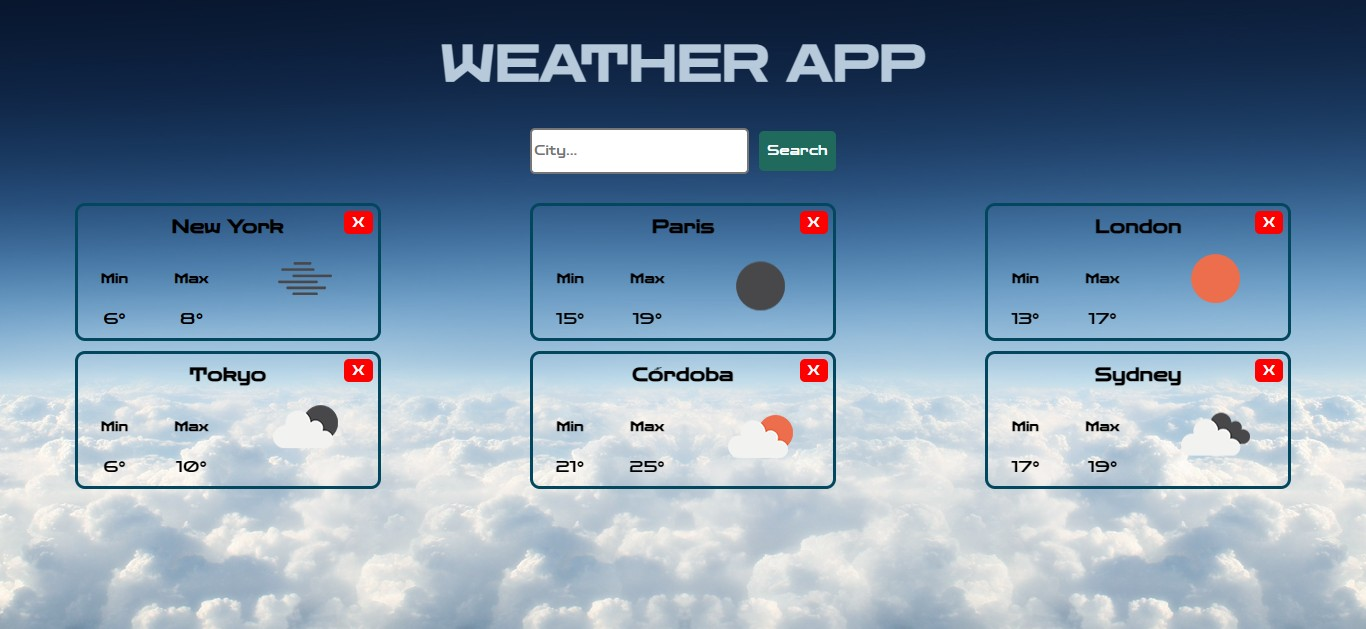
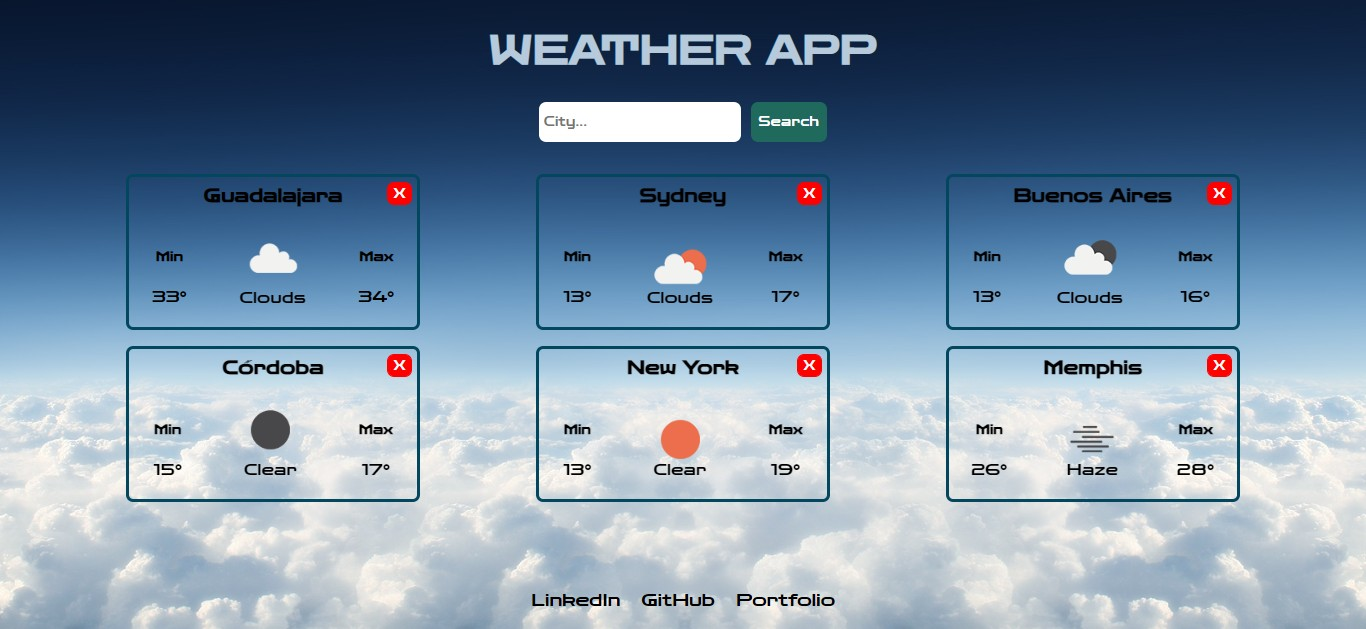
Change weather app image and Delete stats section

diff --git a/README.md b/README.md
@@ -56,14 +56,6 @@
 
 <hr/>
 
-<h3>📚 Stats</h3>
-
-### [![Anurag's GitHub stats](https://github-readme-stats.vercel.app/api?username=FacundoFigueroa23&count_private=true&show_icons=true&theme=react)](https://github.com/anuraghazra/github-readme-stats)
-
-### [![Top Langs](https://github-readme-stats.vercel.app/api/top-langs/?username=FacundoFigueroa23&count_private=true&show_icons=true&theme=react&layout=compact)](https://github.com/anuraghazra/github-readme-stats)
-
-
-<hr/>
 
 <h3>📫 Contact with me</h3>
 
